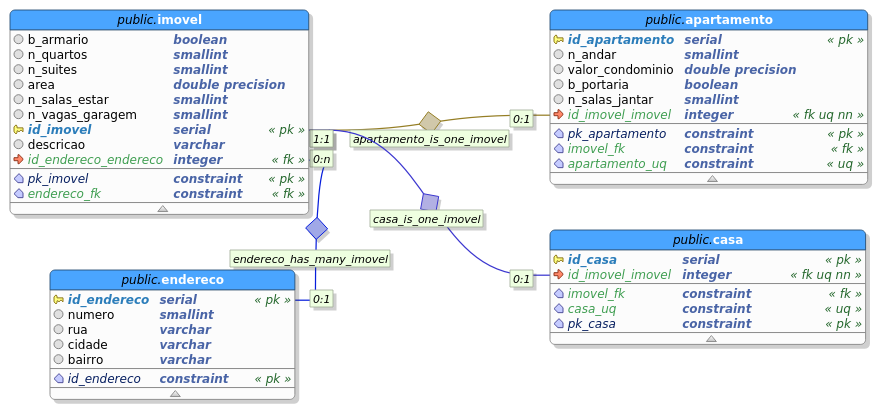
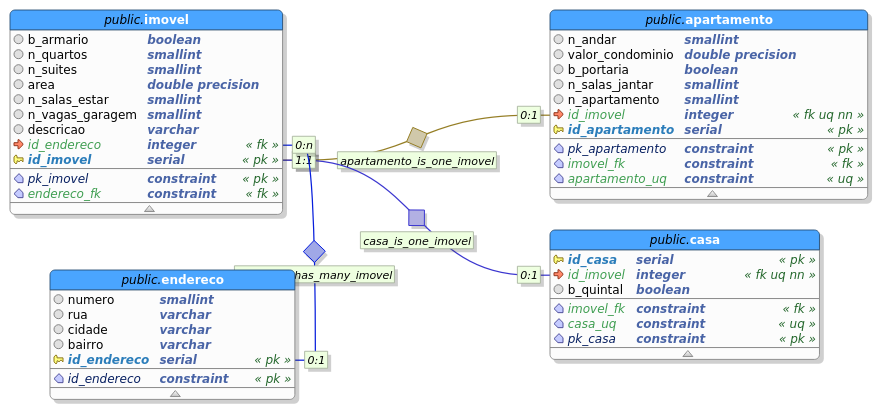
Starting the project 20pts

diff --git a/app/templates/casa.html b/app/templates/casa.html
@@ -1,0 +1,86 @@
+{% extends 'index.html' %}
+
+{% block content %}
+<div class="row">
+  <div class="col">
+    <p>Casas</p>
+    <table class="table">
+      <thead class="thead-dark">
+        <tr>
+          <th scope="col">Contém armário</th>
+          <th scope="col">N# de Quartos</th>
+          <th scope="col">N# de Suites</th>
+          <th scope="col">Área em M²</th>
+          <th scope="col">N# de Salas de Estar</th>
+          <th scope="col">N# de vagas na garagem</th>
+          <th scope="col">Descricao</th>
+          <th scope="col">Contém quintal</th>
+          <th scope="col">Endereço</th>
+          <th scope="col">Remover</th>
+          <th scope="col">Atualizar</th>
+        </tr>
+      </thead>
+      <tbody>
+        {% for casa in casas %}
+          <tr>
+              <td>{% if casa[0] %} Sim {% else %} Não {% endif %}</td>
+              <td>{{ casa[1] }}</td>
+              <td>{{ casa[2] }}</td>
+              <td>{{ casa[3] }}</td>
+              <td>{{ casa[4] }}</td>
+              <td>{{ casa[5] }}</td>
+              <td>{{ casa[6] }}</td>
+              <td>{% if casa[7] %} Sim {% else %} Não {% endif %}</td>
+              <td>{{ casa[11] }} : {{ casa[10] }} : 
+              {{ casa[9] }} : {{ casa[8] }}</td>
+              
+              <td style="text-align: center;">
+                <form method="get" action="" id="formDelete{{ casa[12] }}">
+                  <input type="hidden" name="delete" value="{{ casa[12] }}">
+                  <button class="btn btn-dark" type="submit" form="formDelete{{ casa[12] }}">X</button>
+                </form>
+              </td>
+              <td style="text-align: center;">
+                <form method="get" action="update" id="formUpdate{{ casa[12] }}">
+                  <input type="hidden" name="type" value="3">
+                  <input type="hidden" name="update" value="{{ casa[12] }}">
+                  <button class="btn btn-dark" type="submit" form="formUpdate{{ casa[12] }}">U</button>
+                </form>
+              </td>
+          </tr>
+        {% endfor %}
+      </tbody>
+    </table>
+  </div>
+</div>
+
+<div class="row">
+  <div class="col">
+    <p>Cadastrar</p>
+    <form method="post">
+        <div class="form-group">
+            <label for="endereco"></label>
+            <select name="endereco" class="custom-select">
+                {% for endereco in enderecos %}
+                    <option value="{{ endereco[0] }}">{{ endereco[1] }}</option>
+                {% endfor %}
+            </select>
+        </div>
+      <button type="submit" class="btn btn-dark btn-lg btn-block">Cadastrar</button>
+    </form>
+
+  <!--   {% if mostra_aviso %}
+    <div class="alert alert-danger" role="alert" style="margin-top: 56px;">
+      <strong>Ops!</strong> Combinação já existente.
+    </div>
+    {% endif %}
+
+    {% if msg != "" %}
+    <div class="alert alert-danger" role="alert" style="margin-top: 56px;">
+      <strong>Ops!</strong> Impossível remover o preço.
+    </div>
+    {% endif %} -->
+  </div>
+</div>
+
+{% endblock %}

diff --git a/app/templates/index.html b/app/templates/index.html
@@ -6,15 +6,15 @@
   <meta charset="utf-8">
   <meta name="viewport" content="width=device-width, initial-scale=1, shrink-to-fit=no">
   <meta name="description" content="">
-  <meta name="author" content="">
+  <meta name="author" content="Vinicius, Zillaine, Malvgomes, SrFreitas">
 
-  <title>Trabalho "GWT"</title>
+  <title>Trabalho Corretora</title>
 
-  <!-- Bootstrap core CSS -->
+  <!-- Bootstrap core CSS-->
   <link href="/static/vendor/bootstrap/css/bootstrap.min.css" rel="stylesheet">
+  <link href="/static/css/sheet.css" rel="stylesheet">
 
-  <!-- Custom styles for this template -->
-  <link href="/static/css/shop-homepage.css" rel="stylesheet">
+  <script src="/static/vendor/jquery/jquery.min.js" type="text/javascript"></script>
 
 </head>
 
@@ -22,32 +22,31 @@
 
   <!-- Navigation -->
   <nav class="navbar navbar-expand-lg navbar-dark bg-dark fixed-top">
-    <div class="container">
-      <a class="navbar-brand" href="/">Batata</a>
-      <button class="navbar-toggler" type="button" data-toggle="collapse" data-target="#navbarResponsive" aria-controls="navbarResponsive" aria-expanded="false" aria-label="Toggle navigation">
-        <span class="navbar-toggler-icon"></span>
-      </button>
+    <a class="navbar-brand" href="/"><strong>Corretora</strong></a>
+
+    <div class="collapse navbar-collapse" id="navbarSupportedContent">
+      <ul class="navbar-nav mr-auto">
+          <li class="nav-item">
+            <a class="nav-link" href="casa">Casas</a>
+          </li>
+
+          <li class="nav-item">
+            <a class="nav-link" href="apartamento">Apartamentos</a>
+          </li>
+      </ul>
     </div>
   </nav>
 
-  <div class="row">
-    <table style="width:100%">
-      <tr>
-          <th>ID</th>
-          <th>Endereço</th>
-      </tr>
-      {% for address in addresses %}
-          <tr>
-              <th>{{ address[0] }}</th>
-              <th>{{ address[1] }}</th>
-          </tr>
-      {% endfor %}
-    </table>
+  <div class="content-fluid">
+    {% block content %}{% endblock %}
   </div>
+
   <!-- Footer -->
-  <footer class="py-5 bg-dark">
-    <div class="container">
-      <p class="m-0 text-center text-white">Copyright &copy; Batata 2019</p>
+  <footer class="page-footer py-3 bg-dark fixed-bottom">
+    <div id="footer-elements" class="container">
+      <p class="m-0 text-center text-white">Participantes</p>
+      <p class="m-0 text-center text-white">Vinicius França, Gustavo Zille, Matheus Alves</p>
+      <p class="m-0 text-center text-white">Engenharia de Software</p>
     </div>
     <!-- /.container -->
   </footer>

diff --git a/app/templates/update.html b/app/templates/update.html
@@ -1,0 +1,31 @@
+{% extends 'index.html' %}
+
+{% block content %}
+    {% if op == "1" %}
+        <div style="text-align: center;" class="row">
+            <div class="col">
+                <form method="post">
+                    <div class="form-group">
+                    </div>
+                    <button type="submit" class="btn btn-dark btn-lg btn-block">Atualizar</button>
+                </form>
+
+                {% if mostra_aviso %}
+                <div class="alert alert-danger" role="alert" style="margin-top: 56px;">
+                    <strong>Ops!</strong> Tipo já existente.
+                </div>
+                {% endif %}
+            </div>
+        </div>
+    {% elif op == "2" %}
+        <div style="text-align: center;" class="row">
+            <div class="col">
+                <form method="post">
+                    <div class="form-group">
+                    </div>
+                    <button type="submit" class="btn btn-dark btn-lg btn-block">Atualizar</button>
+                </form>
+            </div>
+        </div>
+    {% endif %}
+{% endblock %}

diff --git a/app/__init__.py b/app/__init__.py
@@ -33,7 +33,29 @@ def get_addresses():
     conn.close()
     return data
 
+def get_casas():
+    conn = get_database()
+    cur = conn.cursor()
+    cur.execute('''
+    SELECT
+        b_armario, n_quartos, n_suites,
+        area, n_salas_estar, n_vagas_garagem,
+        descricao, b_quintal, numero, rua,
+        bairro, cidade, id_casa
+    FROM imovel
+    NATURAL JOIN endereco
+    NATURAL JOIN casa;
+    ''')
+    data = cur.fetchall()
+    conn.commit()
+    conn.close()
+    return data
+
+@app.route('/casa')
+def casa():
+    casas = get_casas()
+    return render_template('casa.html', casas=casas)
+
 @app.route('/')
 def index():
-    addresses = get_addresses()
-    return render_template('index.html', addresses=addresses)
+    return render_template('index.html')
